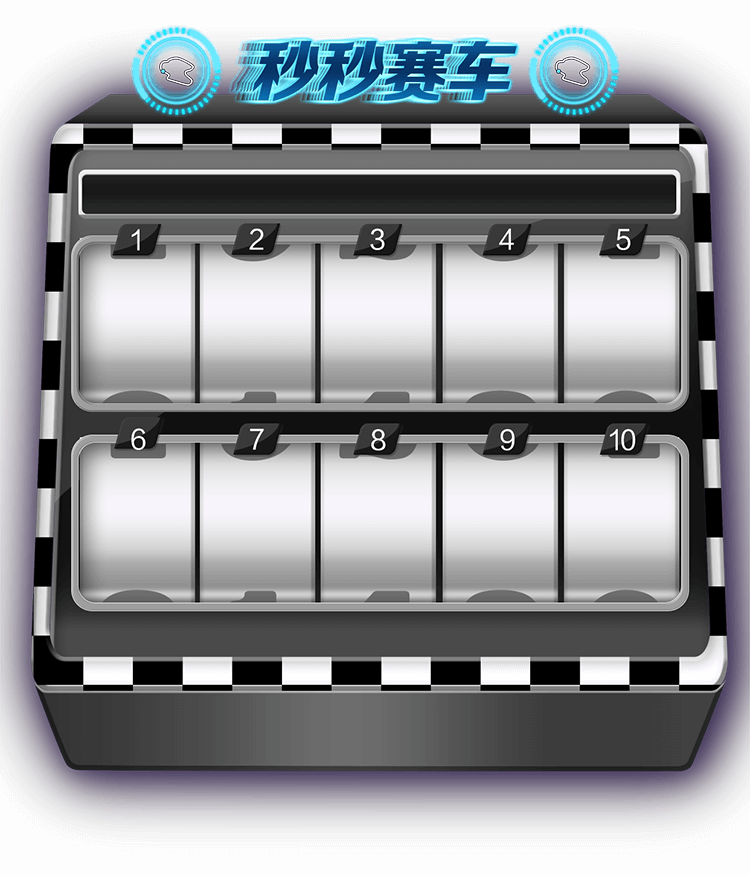
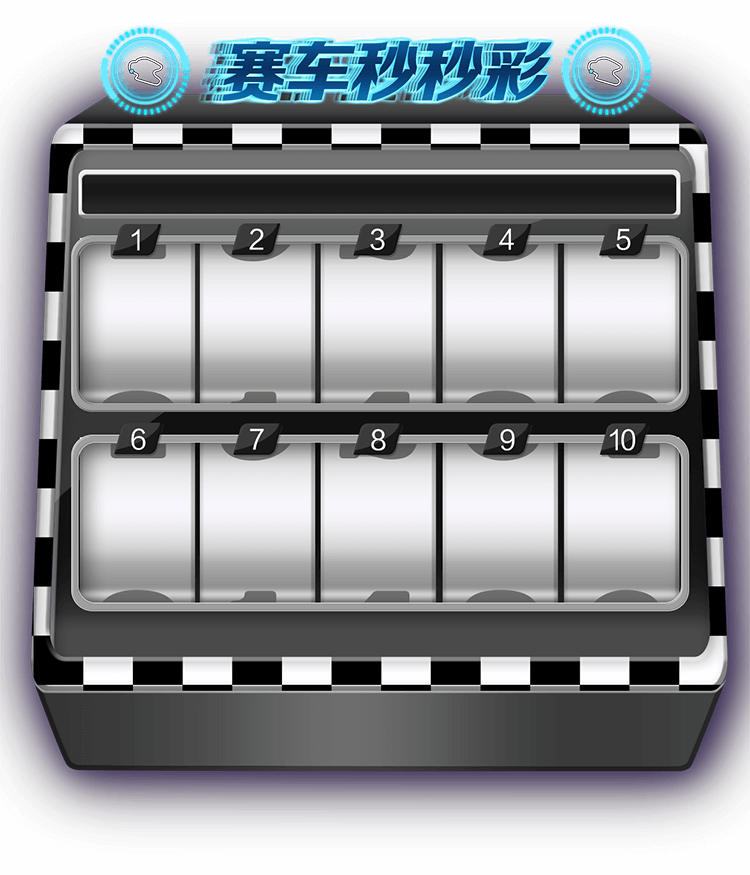
update 赛车秒秒彩

Changed region(s): [[0.1227, 0.0309, 0.8893, 0.1543], [0.1533, 0.4629, 0.2147, 0.5246]]

diff --git a/src/components/publicTemplate/Bet.vue b/src/components/publicTemplate/Bet.vue
@@ -60,17 +60,17 @@
         </div>  -->
 
         <!--秒秒彩开奖弹屏-->
-        <div class="mmc-tool" >
+        <div class="mmc-tool" v-show="lotteryID == 116">
             <div class="mmc-tool_machine">
                 <!-- 开奖动画 -->
                 <div id="res"></div>
                 <div class="mmc-tool_number">
                     <div class="mmc_num_box">
-                        <div class="mmc_num"></div>
-                        <div class="mmc_num"></div>
-                        <div class="mmc_num"></div>
-                        <div class="mmc_num"></div>
-                        <div class="mmc_num"></div>
+                        <div class="mmc_num cqmmc_num"></div>
+                        <div class="mmc_num cqmmc_num"></div>
+                        <div class="mmc_num cqmmc_num"></div>
+                        <div class="mmc_num cqmmc_num"></div>
+                        <div class="mmc_num cqmmc_num"></div>
                     </div>
                 </div>
                 <!-- 开奖后 -->
@@ -96,12 +96,74 @@
                 <!--按钮-->
                 <div class="mmc-tool_btn">
                     <a href="javascript:;" class="btn_reset" @click="closeMmcTool()"></a>
-                    <a href="javascript:;" class="btn_replay"></a>
+                    <a href="javascript:;" class="btn_replay" @click="spinAction('.cqmmc_num')"></a>
                 </div>
             </div>
         </div><!--end 重庆秒秒彩开奖弹屏-->
 
-
+        <!--赛车秒秒彩开奖弹屏-->
+        <div class="mmc-tool pk10-mmc-tool"  v-show="lotteryID == 118">
+            <div class="mmc-tool_machine">
+                <!-- 开奖动画 -->
+                <!-- <div id="res"></div> -->
+                <div class="mmc-tool_number">
+                    <!--设计稿多加的pk10特有开奖讯息-->
+                    <div class="pk10-mmc_marquee">
+                        <span class="num_1">1</span>
+                        <span class="num_2">2</span>
+                        <span class="num_3">3</span>
+                        <span class="num_4">4</span>
+                        <span class="num_5">5</span>
+                        <span class="num_6">6</span>
+                        <span class="num_7">7</span>
+                        <span class="num_8">8</span>
+                        <span class="num_9">9</span>
+                        <span class="num_10">10</span>
+                    </div>
+                    <div class="mmc_num_box">
+                        <div class="mmc_num pk10mmc_num"></div>
+                        <div class="mmc_num pk10mmc_num"></div>
+                        <div class="mmc_num pk10mmc_num"></div>
+                        <div class="mmc_num pk10mmc_num"></div>
+                        <div class="mmc_num pk10mmc_num"></div>
+                        <div class="mmc_num pk10mmc_num"></div>
+                        <div class="mmc_num pk10mmc_num"></div>
+                        <div class="mmc_num pk10mmc_num"></div>
+                        <div class="mmc_num pk10mmc_num"></div>
+                        <div class="mmc_num pk10mmc_num"></div>
+                    </div>
+                </div>
+                <!-- 开奖后 -->
+                <div class="mmc-tool_draw" style="display:none;">
+                    <!--中奖标题-->
+                    <div class="mmc-tool_title mmc-tool_title-win">
+                        <p>总计<span>200.00</span>元</p>
+                    </div>
+                    <!--没中奖标题-->
+                    <div class="mmc-tool_title mmc-tool_title-lose" style="display:none">
+                    </div>
+                    <!--投注清单-->
+                    <div class="mmc-tool_list">
+                        <ul>
+                            <li>【冠亚和-冠军大】@1.98X10 <span class="status-win">已派彩：1.89元</span></li>
+                            <li>【冠亚和值-9】@1.995X10 <span class="status-lose">未中奖</span></li>
+                            <li>【冠军-10】@1.995X10 <span class="status-lose">未中奖</span></li>
+                            <li>【冠军-10】@1.995X10 <span class="status-lose">未中奖</span></li>
+                            <li>【冠军-10】@1.995X10 <span class="status-lose">未中奖</span></li>
+                            <li>【冠军-10】@1.995X10 <span class="status-lose">未中奖</span></li>
+                            <li>【冠军-10】@1.995X10 <span class="status-lose">未中奖</span></li>
+                            <li>【冠军-10】@1.995X10 <span class="status-lose">未中奖</span></li>
+                            <li>【冠军-10】@1.995X10 <span class="status-lose">未中奖</span></li>
+                        </ul>
+                    </div>
+                </div><!-- end 开奖后 -->
+                <!--按钮-->
+                <div class="mmc-tool_btn">
+                    <a href="javascript:;" class="btn_reset" @click="closeMmcTool()"></a>
+                    <a href="javascript:;" class="btn_replay" @click="spinAction('.pk10mmc_num')"></a>
+                </div>
+            </div>
+        </div><!--end 秒秒彩开奖弹屏-->
     </div>
 </template>
 
@@ -131,7 +193,7 @@ export default {
             // shadeStatus:false,
             showList:false ,
             ajaxSubmitAllow :false ,  // 解决重复提交的问题
-            beforeBetBalance: 0 
+            beforeBetBalance: 0
         }
     },
     computed:{
@@ -157,18 +219,14 @@ export default {
             this.focuFirst()
             return this.$store.state.foc
         },
-    },
-
-    watch: {
-        foc: function () {
-        }
-    },
-    mounted:function(){
-        var _self = this;
-        this.focuFirst();
-
-        function numRand() {
-            if ( _self.lotteryID==118){
+        unit: function() {
+             return 2.11 * this.rem;
+        },
+        rem: function() {
+            return $('.so-con').width() / 10;
+        },
+        numRand: function() {
+            if ( this.lotteryID==118){
                 var x = '9999999999'; //上限
                 var y = '0000000000'; //下限
             } else {
@@ -178,44 +236,15 @@ export default {
             var rand = parseInt(Math.random() * (x - y + 1) + y);
             return rand;
         }
-        var isBegin = false;
-        $(function(){
-            var rem = $('.so-con').width() / 10;
-            var u = 2.11*rem;
-            $('.btn_replay').click(function(){
-                if(isBegin) return false;
-                isBegin = true;
-                
-                $(".mmc_num").css('backgroundPositionY',0);
-                var result = numRand();
+    },
 
-                // var result = '3627';
-
-                $('.mmc-tool_btn').find('a').addClass('disable');  // 按钮不能点选样式
-
-                $('#res').text('随机摇奖结果 = '+result);
-                var num_arr = (result+'').split('');
-                $($(".mmc_num").get().reverse()).each(function(index){
-                    var _num = $(this);
-                    setTimeout(function(){
-                        _num.animate({
-                            backgroundPositionY: (u*60) - (u*num_arr[index])
-                        },{
-                            duration: 2000+index*10,
-                            // easing: "easeInOutCirc", // 这个会报错先注解
-                            complete: function(){
-                                if(index==3) isBegin = false;
-                            }
-                        });
-                    }, index * 300);
-
-                    // 移除按钮不能点选状态
-                    setTimeout(function(){
-                        $('.mmc-tool_btn').find('a').removeClass('disable');
-                    }, 4000)
-                });
-            });
-        });
+    watch: {
+        foc: function () {
+        }
+    },
+    mounted:function(){
+        var _self = this;
+        this.focuFirst();
     },
     methods:{
         // 转动轮盘
@@ -248,6 +277,45 @@ export default {
                 // $('.bet-amount').focus();
                 console.log('')
             }
+
+        },
+
+        spinAction: function(el) {
+            var isBegin = false;
+            var _self = this;
+            // 秒秒彩动画
+
+            if(isBegin) return false;
+            isBegin = true;
+
+            $(el).css('backgroundPositionY',0);
+            var result = _self.numRand;
+
+            // var result = '3627';
+
+            $('.mmc-tool_btn').find('a').addClass('disable');  // 按钮不能点选样式
+
+            $('#res').text('随机摇奖结果 = '+result);
+            var num_arr = (result+'').split('');
+            $($(el).get().reverse()).each(function(index){
+                var _num = $(this);
+                setTimeout(function(){
+                    _num.animate({
+                        backgroundPositionY: (_self.unit * 60) - (_self.unit * num_arr[index])
+                    },{
+                        duration: 2000+index*10,
+                        // easing: "easeInOutCirc", // 这个会报错先注解
+                        complete: function(){
+                            if(index==3) isBegin = false;
+                        }
+                    });
+                }, index * 300);
+
+                // 移除按钮不能点选状态
+                setTimeout(function(){
+                    $('.mmc-tool_btn').find('a').removeClass('disable');
+                }, 4000)
+            });
 
         },
 

diff --git a/static/frist/css/page.css b/static/frist/css/page.css
@@ -890,8 +890,8 @@ img.bet_ok { position: absolute; width: 100%; top: -2rem; left: 0; z-index: 1; }
 .mmc-tool{ position: fixed; top:0; left: 50%; bottom:0; z-index: 1000; width: 10rem; margin-left: -5rem; background:url(/static/frist/images/mmc/bg.png) rgba(0, 0, 0, 0.6); background-size: 10rem 100%; }
 .mmc-tool_machine{ background: url(/static/frist/images/mmc/machine.png) no-repeat top center; background-size: 10rem; height: 11.45rem; width:10rem; position: relative; top: 50%; margin-top: -7rem;}
 .mmc-tool_number{ position: absolute; top: 5.5rem; left: 50%; width: 8.024rem; height: 2.11rem; margin-left: -3.95rem; border-radius: 0.2rem; box-shadow: 0 0 0.4rem 0.1rem  rgba(37, 22, 87, 0.76) inset; }
-.mmc_num{width: 1.6rem; height: 2.11rem; background: url(/static/frist/images/mmc/mmc_num.png) repeat-y top center; background-size: 1.29rem 21.1rem; float:left;}
-.mmc_num.pk10-mmc_num{ background-image: url(/static/frist/images/mmc/pk10_num.png); margin-bottom: 0.5rem;}
+.cqmmc_num{width: 1.6rem; height: 2.11rem; background: url(/static/frist/images/mmc/mmc_num.png) repeat-y top center; background-size: 1.29rem 21.1rem; float:left;}
+.pk10mmc_num{ width: 1.6rem; height: 2.11rem; background: url(/static/frist/images/mmc/pk10_num.png) repeat-y top center; background-size: 1.29rem 21.1rem; float:left; margin-bottom: 0.5rem;}
 .mmc-tool_btn{ position: absolute; bottom: 1rem; z-index: 11; text-align: center; width: 10rem; }
 .mmc-tool_btn a{ display:inline-block; width: 2.718rem; height:0.871rem; margin: 0 0.5rem;}
 .btn_replay{ background: url(/static/frist/images/mmc/btn_replay.png) no-repeat center center; background-size: 100% 100%; }
@@ -913,7 +913,7 @@ img.bet_ok { position: absolute; width: 100%; top: -2rem; left: 0; z-index: 1; }
 /* 赛车秒秒彩开奖 */
 .pk10-mmc-tool{  background:url(/static/frist/images/mmc/pk10_bg.png) rgba(0, 0, 0, 0.6); background-size: 10rem 100%; }
 .pk10-mmc-tool .mmc-tool_machine{ background: url(/static/frist/images/mmc/pk10_machine.png) no-repeat top center; background-size: 10rem; height: 11.67rem; }
-.pk10-mmc-tool .mmc-tool_number{ top: 3.3rem; }
+.pk10-mmc-tool .mmc-tool_number{ top: 3.3rem; box-shadow: none; }
 .pk10-mmc-tool .mmc-tool_draw{ background: url(/static/frist/images/mmc/pk10_mask.png) no-repeat center center transparent; background-size: 100% 100%;}
 .pk10-mmc-tool .mmc-tool_title{ margin-top: 2.5rem;}
 .pk10-mmc-tool .mmc-tool_list{ background-color: transparent; height: 3.7rem;}
@@ -931,6 +931,11 @@ img.bet_ok { position: absolute; width: 100%; top: -2rem; left: 0; z-index: 1; }
 .pk10-mmc_marquee .num_8{ background-position-y: -3.5rem;}
 .pk10-mmc_marquee .num_9{ background-position-y: -4rem;}
 .pk10-mmc_marquee .num_10{ background-position-y: -4.5rem;}
+.pk10-mmc-tool .mmc-tool_btn a { width: 2.879rem; height: 1.016rem; margin: 0 0.3rem;}
+.pk10-mmc-tool .btn_replay{ background-image: url(/static/frist/images/mmc/pk10_btn_replay.png); background-size: 100% 100%; }
+.pk10-mmc-tool .btn_replay.disable{ background-image:url(/static/frist/images/mmc/pk10_btn_replay_disable.png)}
+.pk10-mmc-tool .btn_reset{ background-image: url(/static/frist/images/mmc/pk10_btn_reset.png); background-size: 100% 100%; }
+.pk10-mmc-tool .btn_reset.disable{ background-image:url(/static/frist/images/mmc/pk10_btn_reset_disable.png)}
 
 /* -----------------------------------------
 // 投注纪录
